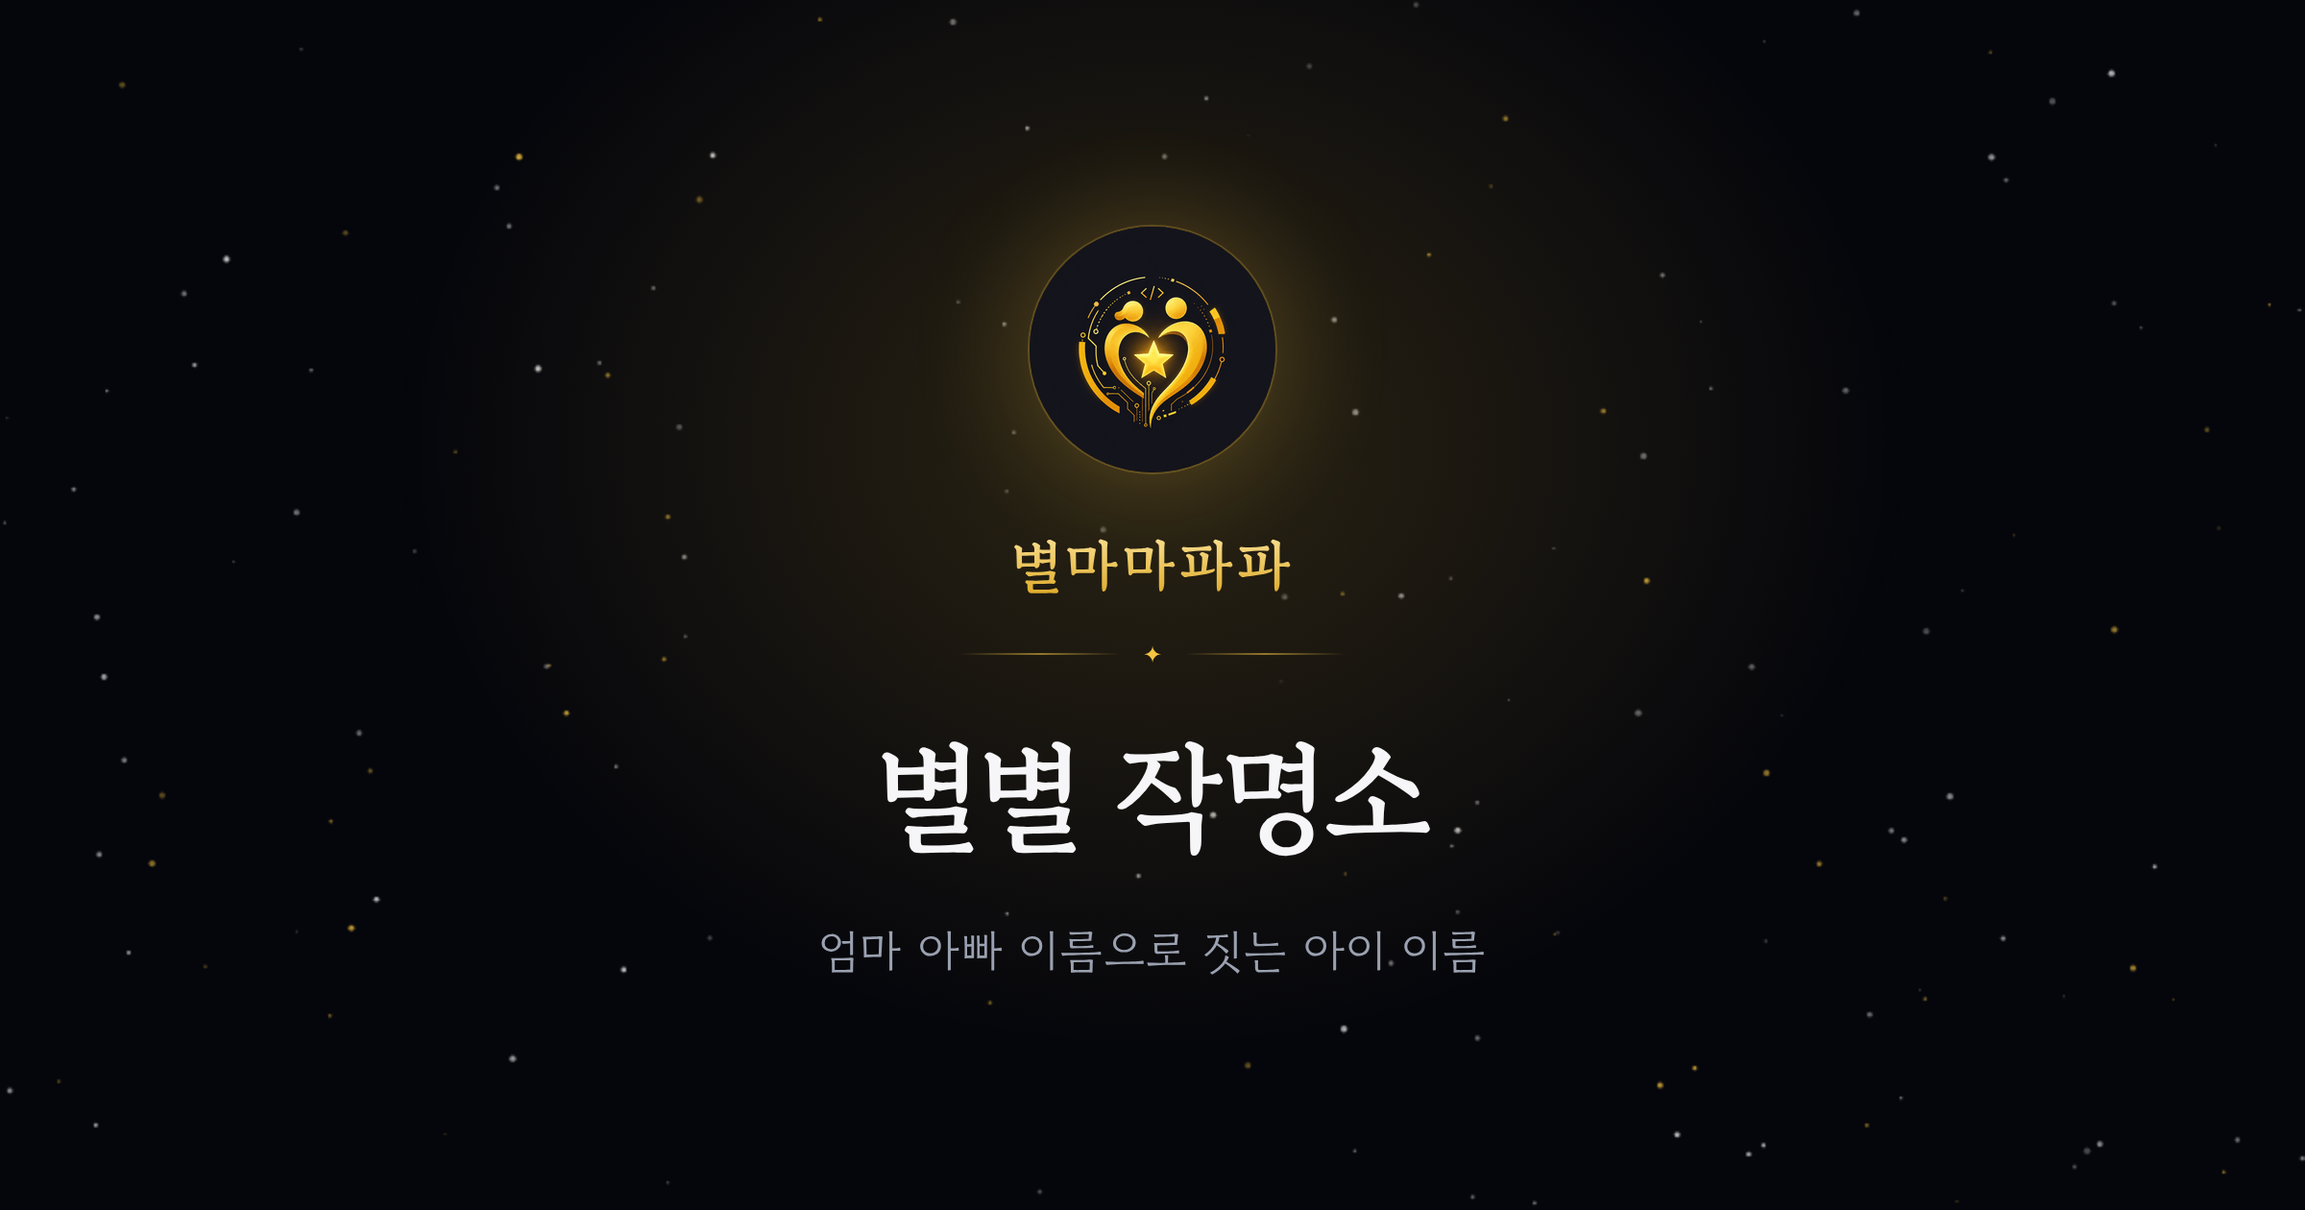
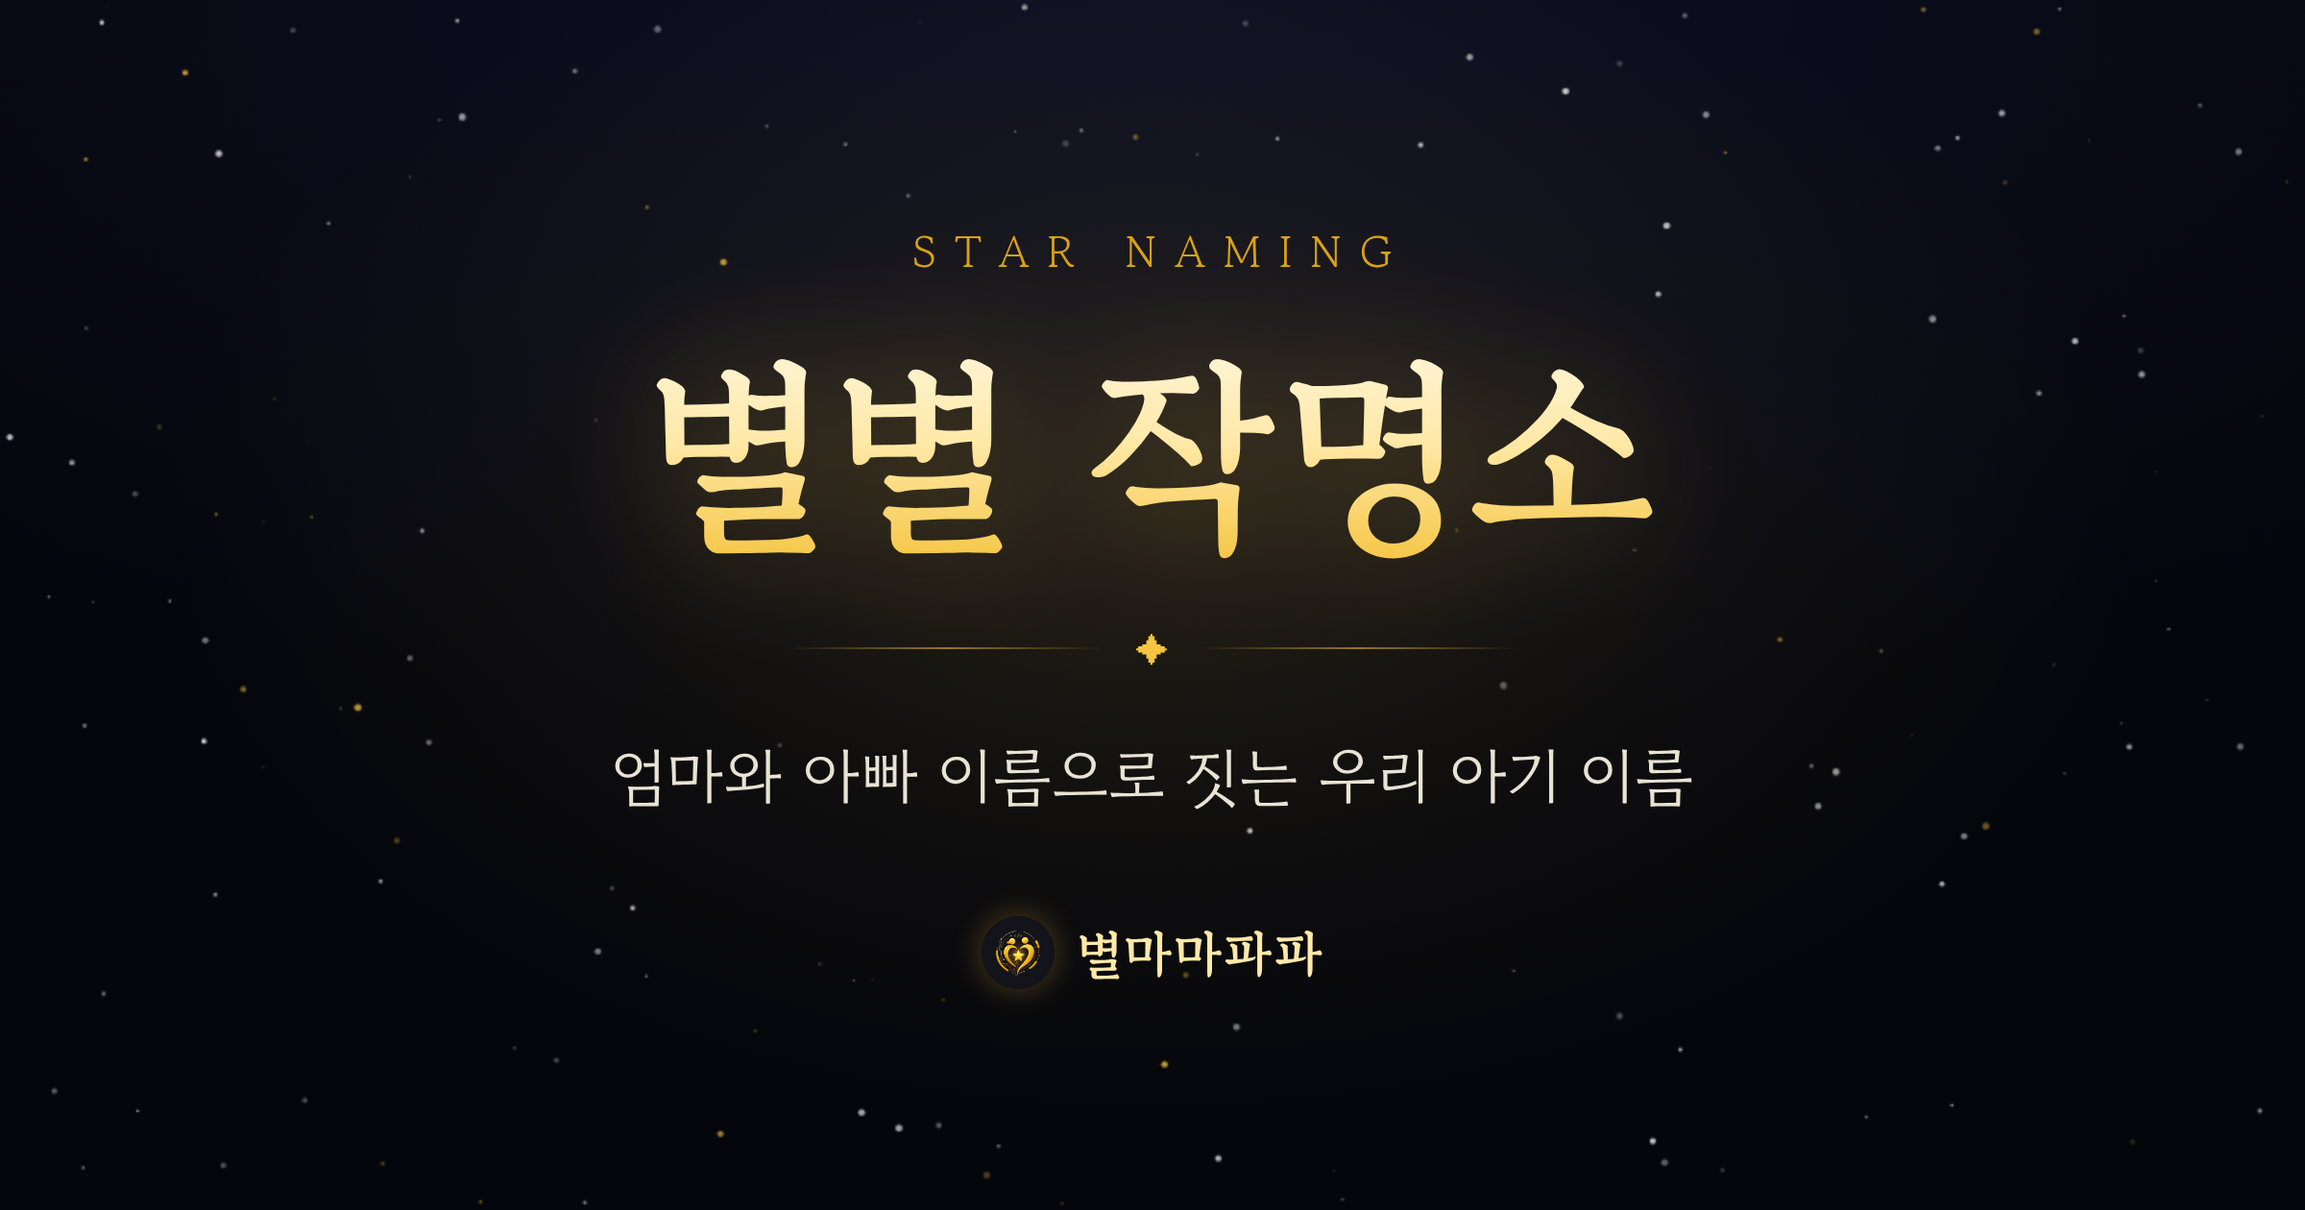
카톡 공유 이미지를 새로 만들고, 외자 이름 · 초성 정리
- 공유 이미지: 별빛 초대장 카드와 같은 짜임으로 다시 만든다. 제목을
  크게 두고 그 아래 설명을, 로고와 회사명은 작게 아래로 내린다.
- 초성 지정을 걷어낸다. 글자 지정 하나만 남으니 안내 문구도 고친다.
- 이름 자수에 외자를 더한다.
  - 외자는 첫 글자이자 끝 글자라 자리 조건을 가리면 남는 글자가 없다.
  - 뜻풀이도 앞글자가 없으니 "보배"처럼 뜻만, 손에 잡히지 않는 뜻이면
    "착한 아이"처럼 받쳐서 적는다.
  - 닮음 100%는 자리가 하나뿐이라 두 분에게서 한 글자씩 받을 수 없다.
    한 분의 글자를 그대로 받는 것으로 하고, 그렇게 알려 준다.
  - 순우리말 외자(별 · 봄 · 솔 · 달 · 빛 · 샘 · 결)를 담는다.
- 다 보여 준 뒤 다시 들어와 지으면 빈 창이 뜨던 것을 고친다. 외자처럼
  후보가 적을 때 쉽게 걸린다. 막다른 길이 되지 않게 기억을 비우고
  곧바로 다시 지어 주고, 그렇게 했다고 알린다.
- '더 자세히 고르기'를 상자로 세워 눌러 볼 것이 있다는 걸 알아보게 한다.

diff --git a/app.js b/app.js
@@ -359,9 +359,17 @@
 
   function syncSimil() {
     const v = Number($("simil").value);
+    const len = Number(document.querySelector('input[name="len"]:checked').value);
     $("similPct").textContent = v + "%";
-    $("similDesc").textContent = SIMIL_PLAN[v].desc;
+    /* 외자는 자리가 하나뿐이라 두 분에게서 한 글자씩 받을 수 없다 */
+    $("similDesc").textContent =
+      len === 1 && v === 100
+        ? "외자는 자리가 하나예요. 두 분 중 한 분의 글자를 그대로 가져옵니다."
+        : SIMIL_PLAN[v].desc;
   }
+  document.querySelectorAll('input[name="len"]').forEach((el) =>
+    el.addEventListener("change", syncSimil)
+  );
   $("simil").addEventListener("input", syncSimil);
   syncSimil();
 
@@ -371,35 +379,8 @@
     el.addEventListener("change", () => {
       const v = document.querySelector('input[name="must"]:checked').value;
       $("mustChar").hidden = v !== "char";
-      $("mustCho").hidden = v !== "cho";
     });
   });
-
-  /* 초성 고르기 채우기 */
-  [$("cho1"), $("cho2")].forEach((sel) => {
-    const none = document.createElement("option");
-    none.value = "";
-    none.textContent = "고르지 않음";
-    sel.append(none);
-    CHOSUNG_PICKABLE.forEach((c) => {
-      const o = document.createElement("option");
-      o.value = c;
-      o.textContent = c;
-      sel.append(o);
-    });
-  });
-
-  /* 이름 자수가 두 글자면 셋째 글자 초성은 의미가 없다 */
-  function syncChoLabels() {
-    const len = Number(document.querySelector('input[name="len"]:checked').value);
-    const labels = $("mustCho").querySelectorAll(".field__label");
-    labels[0].textContent = "첫 글자 초성";
-    labels[1].textContent = len === 3 ? "둘째 또는 셋째 글자 초성" : "둘째 글자 초성";
-  }
-  document.querySelectorAll('input[name="len"]').forEach((el) =>
-    el.addEventListener("change", syncChoLabels)
-  );
-  syncChoLabels();
 
   /* ── 이름 짓기 ────────────────────────────── */
 
@@ -422,7 +403,6 @@
       if (x.n.length !== o.len) return false;
       if (o.gender !== "N" && x.g !== "N" && x.g !== o.gender) return false;
       if (o.mustChar && !x.n.includes(o.mustChar)) return false;
-      if (!choOk(x.n, o.cho1, o.cho2)) return false;
       if (blocked(o.surname, x.n)) return false;
       if (o.exclude.has(o.surname + x.n)) return false;
       return true;
@@ -457,6 +437,8 @@
     if (!d) return true;
     const p = d.p;
     if (p === "b") return true;
+    /* 외자는 첫 글자이면서 끝 글자라, 앞자리/끝자리를 가리면 아무것도 남지 않는다 */
+    if (len === 1) return true;
     if (i === 0) return p === "1";
     if (i === len - 1) return p === "2";
     return true; // 세 글자 이름의 가운데는 가리지 않는다
@@ -468,17 +450,6 @@
       if (given.includes(bad) || full.includes(bad)) return true;
     }
     return false;
-  }
-
-  function choOk(given, c1, c2) {
-    if (c1) {
-      if (chosungOf(given[0]) !== c1) return false;
-    }
-    if (c2) {
-      const rest = [...given].slice(1).map(chosungOf);
-      if (!rest.includes(c2)) return false;
-    }
-    return true;
   }
 
   /**
@@ -607,7 +578,6 @@
       seen.add(given);
 
       if (o.mustChar && !given.includes(o.mustChar)) continue;
-      if (!choOk(given, o.cho1, o.cho2)) continue;
       if (blocked(o.surname, given)) continue;
 
       const full = o.surname + given;
@@ -635,6 +605,12 @@
     if (h.some((x) => !x || x.m === "뜻 모름")) return "";
     const last = h[h.length - 1];
     const head = CONCRETE.has(last.m);
+
+    /* 외자는 꾸밀 앞글자가 없다. 손에 잡히는 뜻이면 그대로,
+       아니면 "아이"를 받쳐 이름씨로 만든다. */
+    if (h.length === 1) {
+      return head ? last.m : last.a + " 아이";
+    }
 
     if (h.length === 2) {
       return head ? h[0].a + " " + last.m : h[0].j + " " + last.a + " 아이";
@@ -822,8 +798,6 @@
 
     const mustMode = document.querySelector('input[name="must"]:checked').value;
     let mustChar = "";
-    let cho1 = "";
-    let cho2 = "";
 
     if (mustMode === "char") {
       mustChar = $("mustCharInput").value.trim();
@@ -843,10 +817,6 @@
           error: why + '이름 표기를 "순우리말 이름"으로 바꾸면 그대로 넣어 드릴게요.',
         };
       }
-    } else if (mustMode === "cho") {
-      cho1 = $("cho1").value;
-      cho2 = $("cho2").value;
-      if (!cho1 && !cho2) return { error: "초성을 하나 이상 골라 주세요." };
     }
 
     const simil = Number($("simil").value);
@@ -859,7 +829,9 @@
             : "두 분 이름을 다시 확인해 주세요.",
       };
     }
-    if (simil === 100 && new Set(usable.map((p) => p.who)).size < 2) {
+    const len = Number(document.querySelector('input[name="len"]:checked').value);
+
+    if (len > 1 && simil === 100 && new Set(usable.map((p) => p.who)).size < 2) {
       return {
         error: "닮음 100%는 아빠·엄마 이름에서 각각 한 글자씩 가져와요. 닮음을 조금 낮춰 주세요.",
       };
@@ -870,13 +842,11 @@
       surname: dad.sur,
       surHanja: null,
       key: historyKey($("dadName").value, $("momName").value),
-      len: Number(document.querySelector('input[name="len"]:checked').value),
+      len,
       gender: document.querySelector('input[name="gender"]:checked').value,
       script,
       simil,
       mustChar,
-      cho1,
-      cho2,
       parents,
       exclude: shown,
     };
@@ -902,10 +872,27 @@
           return;
         }
 
-        /* 마지막으로 보여 준 이름은 그대로 두고 알림만 얹는다 */
-        if (current) openModal(current.result, current.opts);
-        else $("modal").hidden = false;
+        /* 보여 줄 이름이 화면에 없으면(다시 들어와 지은 첫 판) 빈 창이 뜬다.
+           막다른 길이 되지 않게 기억을 비우고 곧바로 다시 지어 준다. */
+        if (!current) {
+          const many = shown.size;
+          clearShown(shownKey);
+          shown = new Set();
+          opts.exclude = shown;
+          const again = buildName(opts);
+          if (!again) {
+            showError("이 조건에 맞는 이름을 찾지 못했어요. 조건을 조금 풀어 주세요.");
+            return;
+          }
+          shown.add(again.full);
+          writeShown(opts.key, shown);
+          openModal(again, opts);
+          toast("이 조건의 이름 " + many + "개를 모두 보여 드려서, 처음부터 다시 보여 드려요.");
+          return;
+        }
 
+        /* 마지막으로 보여 준 이름은 그대로 두고 알림만 얹는다 */
+        openModal(current.result, current.opts);
         $("modalNote").textContent =
           "지어 드릴 수 있는 이름 " + shown.size + "개를 모두 보여 드렸어요. " +
           "조건을 바꾸거나, 처음부터 다시 보실 수 있어요.";

diff --git a/index.html b/index.html
@@ -4,7 +4,7 @@
 <meta charset="utf-8" />
 <meta name="viewport" content="width=device-width, initial-scale=1, viewport-fit=cover" />
 <title>별별 작명소 — 엄마 아빠 이름으로 짓는 아기 이름 · 무료 작명</title>
-<meta name="description" content="엄마 아빠 이름의 한자 뜻을 이어받아 아기 이름을 무료로 지어 드립니다. 남아 · 여아, 두 글자 · 세 글자, 꼭 넣고 싶은 글자와 초성까지 고르면 한자 뜻풀이와 함께 이름을 추천해 드려요. 회원가입 없이 바로 이용하세요." />
+<meta name="description" content="엄마 아빠 이름의 한자 뜻을 이어받아 아기 이름을 무료로 지어 드립니다. 남아 · 여아, 외자 · 두 글자 · 세 글자, 꼭 넣고 싶은 글자까지 고르면 한자 뜻풀이와 함께 이름을 추천해 드려요. 회원가입 없이 바로 이용하세요." />
 <meta name="keywords" content="작명, 무료 작명, 아기 이름, 아기 이름 짓기, 신생아 이름, 아들 이름, 딸 이름, 한자 이름, 이름 뜻, 이름 추천, 부모 이름으로 짓는 이름, 별마마파파" />
 <meta name="author" content="별마마파파" />
 <meta name="robots" content="index, follow, max-image-preview:large" />
@@ -172,7 +172,14 @@
 
     <!-- 더 고르고 싶을 때만 펼치는 칸 -->
     <details class="more">
-      <summary>더 자세히 고르기</summary>
+      <summary>
+        <span class="more__icon" aria-hidden="true">✦</span>
+        <span class="more__text">
+          더 자세히 고르기
+          <em>닮음 정도 · 이름 자수 · 꼭 넣을 글자</em>
+        </span>
+        <span class="more__chev" aria-hidden="true"></span>
+      </summary>
 
       <section class="step">
         <h3 class="step__title">부모 이름과 얼마나 닮게 할까요?</h3>
@@ -186,20 +193,20 @@
       <section class="step">
         <h3 class="step__title">이름 자수</h3>
         <p class="step__hint">성을 뺀 이름의 글자 수입니다.</p>
-        <div class="opts" role="radiogroup" aria-label="이름 자수">
+        <div class="opts opts--3" role="radiogroup" aria-label="이름 자수">
+          <label class="opt"><input type="radio" name="len" value="1" /><span>한 글자<em>예) 별</em></span></label>
           <label class="opt"><input type="radio" name="len" value="2" checked /><span>두 글자<em>예) 한별</em></span></label>
           <label class="opt"><input type="radio" name="len" value="3" /><span>세 글자<em>예) 한아름</em></span></label>
         </div>
       </section>
 
       <section class="step">
-      <h3 class="step__title">꼭 넣고 싶은 것</h3>
-      <p class="step__hint">글자와 초성 중 하나만 고를 수 있어요.</p>
+      <h3 class="step__title">꼭 넣고 싶은 글자</h3>
+      <p class="step__hint">이름에 반드시 들어갈 글자를 하나 정할 수 있어요.</p>
 
       <div class="opts" role="radiogroup" aria-label="조건 종류">
         <label class="opt"><input type="radio" name="must" value="none" checked /><span>없어요</span></label>
         <label class="opt"><input type="radio" name="must" value="char" /><span>글자 지정</span></label>
-        <label class="opt"><input type="radio" name="must" value="cho" /><span>초성 지정</span></label>
       </div>
 
       <div id="mustChar" class="must-box" hidden>
@@ -207,20 +214,6 @@
           <span class="field__label">꼭 들어갈 한 글자</span>
           <input type="text" id="mustCharInput" placeholder="예) 은" maxlength="1" />
         </label>
-      </div>
-
-      <div id="mustCho" class="must-box" hidden>
-        <div class="grid2">
-          <label class="field">
-            <span class="field__label">첫 글자 초성</span>
-            <select id="cho1"></select>
-          </label>
-          <label class="field">
-            <span class="field__label">둘째 글자 초성</span>
-            <select id="cho2"></select>
-          </label>
-        </div>
-        <p class="step__hint">둘 다 고르지 않아도 됩니다. 고른 것만 맞춰 드려요.</p>
       </div>
       </section>
     </details>
@@ -255,7 +248,7 @@
       </li>
       <li>
         <h3>조건에 맞는 이름을 고릅니다</h3>
-        <p>남아·여아, 두 글자·세 글자, 꼭 넣고 싶은 글자 하나 또는 초성 두 개까지 맞춰 드립니다.</p>
+        <p>남아·여아, 외자·두 글자·세 글자, 꼭 넣고 싶은 글자 하나까지 맞춰 드립니다.</p>
       </li>
     </ol>
   </section>

diff --git a/styles.css b/styles.css
@@ -329,27 +329,76 @@ input[type="range"]::-moz-range-thumb {
 
 .must-box { margin-top: 14px; }
 
-/* 더 자세히 고르기 */
-.more { border-top: 1px solid rgba(255,255,255,0.06); }
+/* 더 자세히 고르기 — 눌러 볼 것이 있다는 걸 한눈에 알도록 상자로 세운다 */
+.more { margin-top: 20px; }
 .more > summary {
-  position: relative;
-  padding: 18px 30px 18px 2px;
+  display: flex;
+  align-items: center;
+  gap: 12px;
+  padding: 15px 16px;
   cursor: pointer;
   list-style: none;
-  font-family: var(--font-sub);
-  font-size: 0.92rem;
-  color: var(--gold-2);
+  border: 1px solid rgba(245, 197, 66, 0.34);
+  border-radius: 14px;
+  background: linear-gradient(180deg, rgba(245,197,66,0.10), rgba(245,197,66,0.04));
+  transition: border-color 0.2s ease, background 0.2s ease;
+}
+.more > summary:hover {
+  border-color: rgba(245, 197, 66, 0.6);
+  background: linear-gradient(180deg, rgba(245,197,66,0.16), rgba(245,197,66,0.06));
 }
 .more > summary::-webkit-details-marker { display: none; }
-.more > summary::after {
-  content: "▾";
-  position: absolute; right: 6px; top: 50%;
-  transform: translateY(-50%);
-  font-size: 0.8rem;
-  transition: transform 0.2s ease;
+
+.more__icon {
+  flex: none;
+  width: 30px; height: 30px;
+  display: grid; place-items: center;
+  border-radius: 50%;
+  background: rgba(245, 197, 66, 0.16);
+  color: var(--gold-2);
+  font-size: 0.82rem;
 }
-.more[open] > summary::after { transform: translateY(-50%) rotate(180deg); }
-.more[open] > summary { color: var(--gold-1); }
+.more__text {
+  flex: 1;
+  min-width: 0;
+  font-family: var(--font-brand);
+  font-size: 1.02rem;
+  color: var(--gold-1);
+}
+.more__text em {
+  display: block;
+  margin-top: 3px;
+  font-family: var(--font-sub);
+  font-style: normal;
+  font-size: 0.76rem;
+  color: var(--muted-dim);
+}
+.more__chev {
+  flex: none;
+  width: 9px; height: 9px;
+  border-right: 2px solid var(--gold-2);
+  border-bottom: 2px solid var(--gold-2);
+  transform: translateY(-3px) rotate(45deg);
+  transition: transform 0.22s ease;
+}
+.more[open] > summary {
+  border-color: rgba(245, 197, 66, 0.5);
+  border-bottom-left-radius: 0;
+  border-bottom-right-radius: 0;
+}
+.more[open] .more__chev { transform: translateY(1px) rotate(-135deg); }
+/* 펼치면 상자가 아래 내용까지 이어지도록 테두리를 둘러 준다 */
+.more[open] > summary ~ .step {
+  border-left: 1px solid rgba(245, 197, 66, 0.2);
+  border-right: 1px solid rgba(245, 197, 66, 0.2);
+  padding-left: 16px;
+  padding-right: 16px;
+}
+.more[open] > summary ~ .step:last-of-type {
+  border-bottom: 1px solid rgba(245, 197, 66, 0.2);
+  border-radius: 0 0 14px 14px;
+  padding-bottom: 18px;
+}
 .more .step { padding-top: 4px; }
 .more .step:first-of-type { border-top: 0; }
 .more .step__title { font-size: 1rem; }

diff --git a/data.js b/data.js
@@ -567,6 +567,15 @@ const SYL = {
  * n 이름 · g 성별 성향 · d 뜻
  */
 const PURE_NAMES = [
+  /* 한 글자 (외자) */
+  { n: "별", g: "N", d: "밤하늘에 빛나는 별" },
+  { n: "봄", g: "F", d: "만물이 새로 돋는 봄" },
+  { n: "솔", g: "N", d: "사철 푸른 소나무" },
+  { n: "달", g: "F", d: "밤을 은은히 밝히는 달" },
+  { n: "빛", g: "N", d: "어둠을 밝히는 빛" },
+  { n: "샘", g: "N", d: "땅에서 맑게 솟아나는 물" },
+  { n: "결", g: "N", d: "곱게 지나간 자리, 한결같은 마음" },
+
   /* 두 글자 */
   { n: "한별", g: "N", d: "하나의 별, 특별한 존재" },
   { n: "다온", g: "N", d: "좋은 일이 다 오다" },

diff --git a/README.md b/README.md
@@ -21,7 +21,7 @@
 | 75% | 한 글자 그대로 + 나머지도 같은 뜻 계열 |
 | 100% | 아빠·엄마 이름에서 각각 한 글자씩 |
 
-4. 성별 · 자수 · 꼭 넣을 글자(또는 초성)를 맞춰 이름을 고릅니다.
+4. 성별 · 자수(외자 · 두 글자 · 세 글자) · 꼭 넣을 글자를 맞춰 이름을 고릅니다.
 5. 한자 이름이면 **뜻풀이**까지 만들어 줍니다.
    예) 恩(은혜 은) + 珍(보배 진) → **은혜로운 보배**
 
